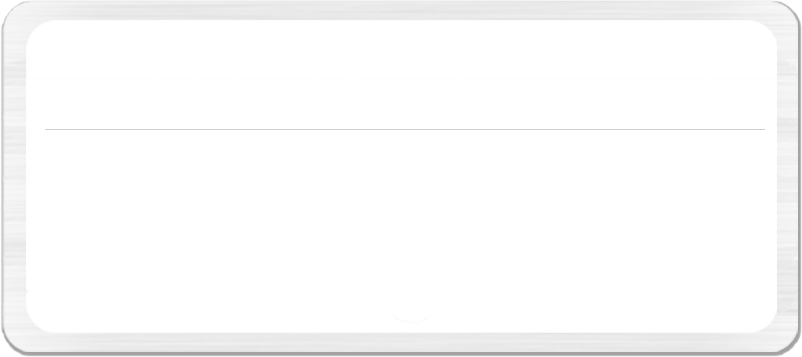
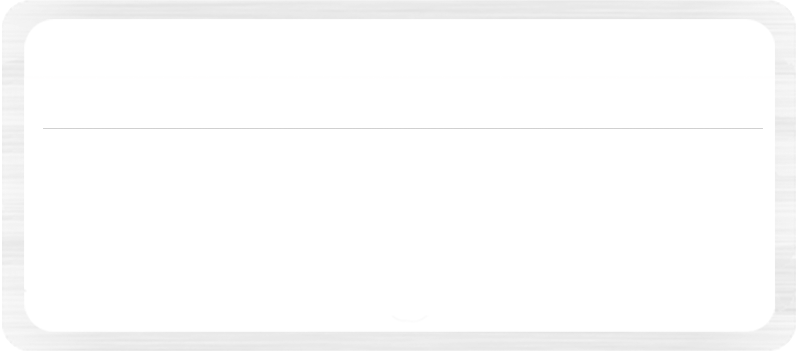
Prueba de Contacto 2

diff --git a/app/assets/stylesheets/custom.css.scss b/app/assets/stylesheets/custom.css.scss
@@ -168,6 +168,8 @@ li span {
   	background-size: cover;
   	height: 357px;
   	width: 802px;
+  	box-shadow:         2px 5px 16px rgba(50, 50, 50, 0.75);
+  	border-radius: 20px;
 }
 
 /* footer */
